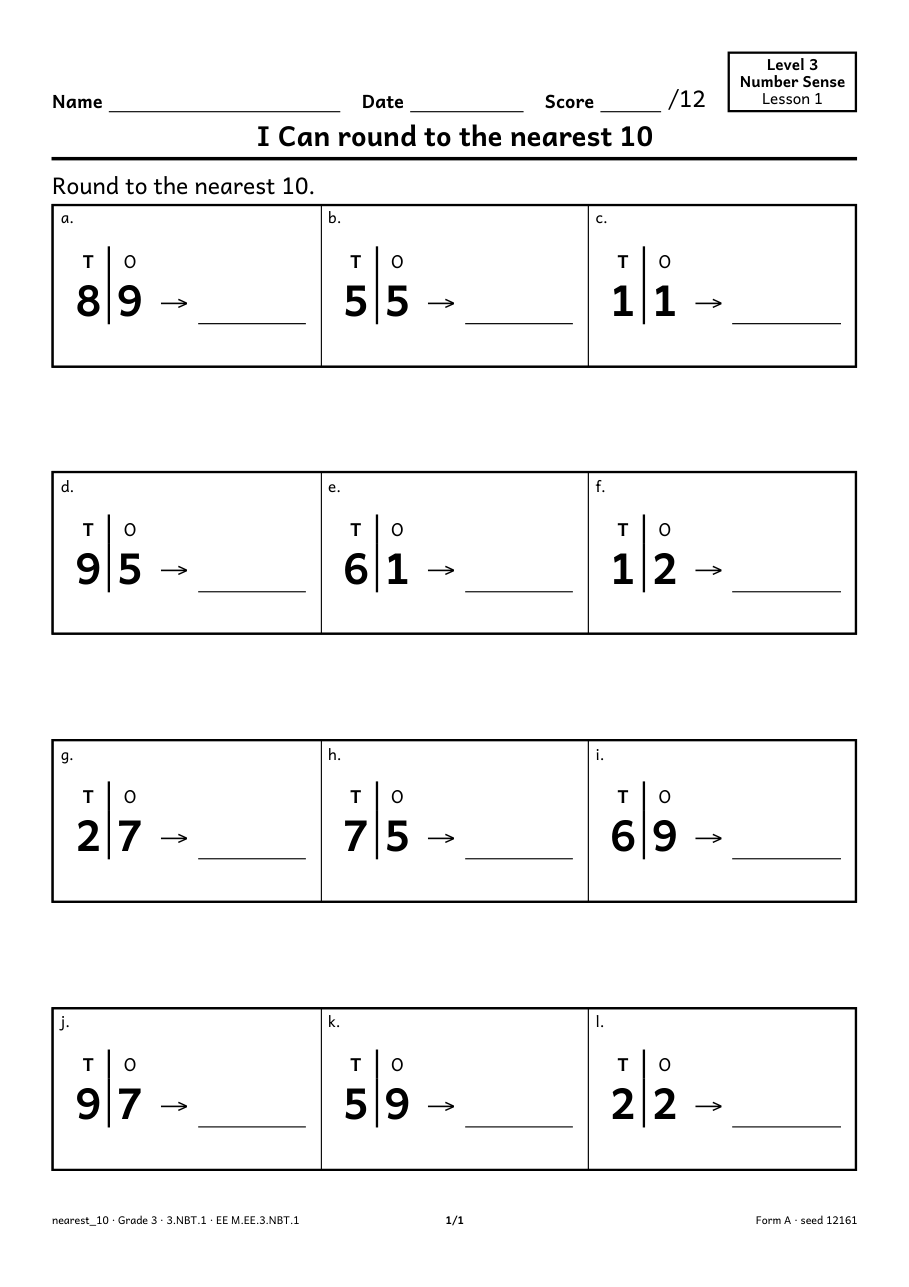
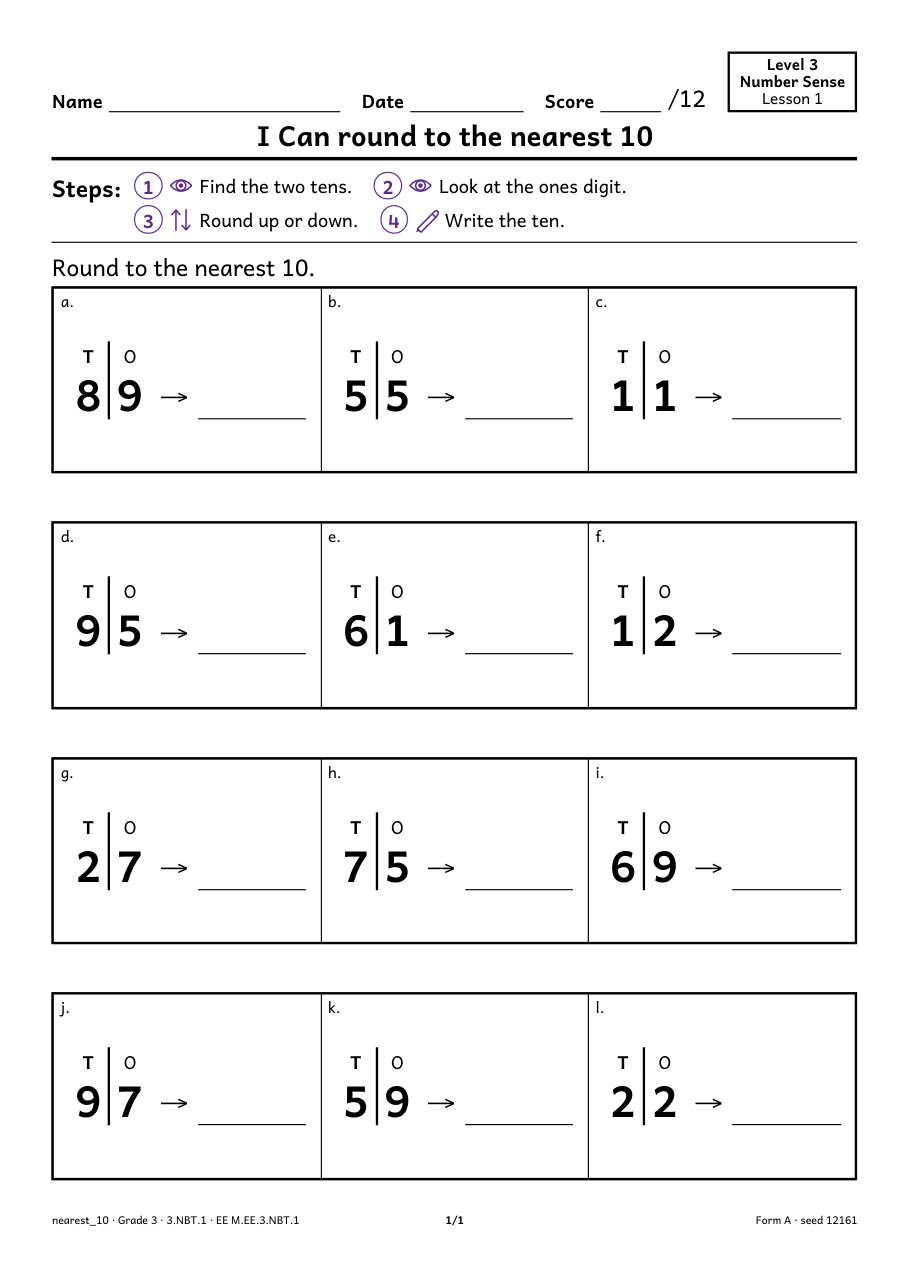
Lesson practice pages: prefer the step strip, whole rows of three
After the merge the dense engine offers 18 one-line items a page, so the strip
check compared a 12-item page with an 18-item capacity and dropped the strip.
The practice page now tries each count (15 at S / 12, then six grown to at most
1.3x) and takes the first that keeps the strip on the pages asked for, falling
back to the fullest plain page. Rounding practice at L keeps its strip again;
at S it prints 12 with the strip instead of 16 with a lone cell.

Gates: ws-print-lint --source kit --roles lesson, ws-boot-smoke, ws-teacher-shell,
ws-layout-unit, ws-code-snapshot, ws-providers-unit.

Claude-Session: https://claude.ai/code/session_01BnHmN8pgHKrPp3MQGgWUWY

diff --git a/js/modules/print-sheet.js b/js/modules/print-sheet.js
@@ -1853,53 +1853,55 @@ async function buildLesson(n, metaOf) {
         const strip = (teach.extras || []).find((x) => x.lessonStrip);
         const h = strip && strip.measured && strip.measured[1] ? strip.measured[1].hMm + 0.5 : 0;
         const stripHtml = strip && h ? strip.render(resolveCtx({ size: n.size, look: 'ican', mode: 'print' })) : '';
-        // 12.1: six items an Independent page, up to 16 for one-number answers - a page of facts
-        // takes twelve, the dense page's own two rows of six more (PT-IND-1).
         // A rounding item ("27 -> ___") is a one-number answer on one line, like a fact.
         const oneLine = (it) => it.template === 'fact' || (it.template === 'pv' && it.kind === 'round');
         const facts = (teach.items || []).filter((it) => it.pool === 'main').every(oneLine);
-        // Six taller problems fill the page two across (cells grow to the page, H13) rather than
-        // packing into the top half of a twelve-cell grid. One-line items take the dense grid at
-        // the most a page holds within the 12.1 ceiling (16 at S, then 12); a count that spills
-        // past the pages asked for steps down, and last of all to six grown to the page.
-        const tries = (facts ? (n.size === 'S' ? [16, 12] : [12]) : []).map((k) => ({ per: k, dense: true })).concat([{ per: 6, dense: false, columns: 3 }]);
-        let per = 6;
-        let dense = false;
-        let req = null;
-        let res = null;
-        for (const t of tries) {
-            const r = Object.assign({}, common, {
+        // One-line items take the dense grid at the most a page holds within the 12.1 ceiling, in
+        // whole rows of three (15 at S, then 12). Taller problems (column subtraction) print six a
+        // page, three across, grown to at most 1.3 x their own height (the lesson rows' cap): a
+        // taller row is an empty band in every cell (H13), so the grid stops short instead.
+        const tries = (facts ? (n.size === 'S' ? [15, 12] : [12]) : []).map((k) => ({ per: k, dense: true })).concat([{ per: 6, dense: false, columns: 3 }]);
+        const make = async (t) => {
+            let req = Object.assign({}, common, {
                 role: 'independent', sections: [{ skills: [sk], count: t.per * n.practicePages, dense: t.dense, columns: t.columns }], seed: (n.seed + 7919) >>> 0,
             });
-            const out = await buildSheet(r);
-            ({ per, dense } = t);
-            req = r;
-            res = out;
-            if (out.pageCount <= n.practicePages) break;
-        }
-        // Six grown to the page grow no further than 1.3 x their own height (the lesson rows' cap):
-        // a taller row is an empty band in every cell (H13), so the grid stops short instead.
-        const f0 = res && res.fits && res.fits.sections && res.fits.sections[0];
-        if (!dense && f0 && f0.hMin > 0 && f0.rows > 0 && f0.cellH > f0.hMin * 1.3) {
-            const gridH = Math.floor(f0.rows * f0.hMin * 1.3 * 1000) / 1000;
-            req = Object.assign({}, req, { sections: [Object.assign({}, req.sections[0], { gridH, columns: f0.cols })] });
-            res = await buildSheet(req);
-        }
+            let res = await buildSheet(req);
+            const f0 = res && res.fits && res.fits.sections && res.fits.sections[0];
+            if (!t.dense && f0 && f0.hMin > 0 && f0.rows > 0 && f0.cellH > f0.hMin * 1.3) {
+                const gridH = Math.floor(f0.rows * f0.hMin * 1.3 * 1000) / 1000;
+                req = Object.assign({}, req, { sections: [Object.assign({}, req.sections[0], { gridH, columns: f0.cols })] });
+                res = await buildSheet(req);
+            }
+            return { req, res };
+        };
         // The strip goes on only where it fits without crowding the page (owner, 2026-09-25): the
-        // page with the strip keeps the columns and the capacity it has without it. A strip that
-        // would turn three columns of problems into two wide, half-empty ones is left off; the
-        // Guided band's Steps and the anchor chart still carry the steps.
-        if (stripHtml) {
-            const cols = (res.fits && res.fits.cols) || 'auto';
-            const cap = (res.fits && res.fits.perPage) || 0;
-            let withStrip = null;
+        // page with the strip keeps the columns, the page count and the items a page of it holds.
+        // A strip that would turn three columns into two wide, half-empty ones is left off.
+        const withStrip = async (t, base) => {
+            const cols = (base.res.fits && base.res.fits.cols) || 'auto';
+            const cap = Math.min((base.res.fits && base.res.fits.perPage) || 0, t.per);
+            let out = null;
             try {
-                withStrip = await buildSheet(Object.assign({}, req, {
-                    sections: [{ skills: [sk], count: per * n.practicePages, columns: cols, dense, gridH: req.sections[0].gridH }], stepStrip: { html: stripHtml, hMm: h },
+                out = await buildSheet(Object.assign({}, base.req, {
+                    sections: [Object.assign({}, base.req.sections[0], { columns: cols })], stepStrip: { html: stripHtml, hMm: h },
                 }));
-            } catch (e) { withStrip = null; }
-            if (withStrip && withStrip.fits && withStrip.fits.cols === cols && (withStrip.fits.perPage || 0) >= cap) res = withStrip;
+            } catch (e) { out = null; }
+            return out && out.fits && out.fits.cols === cols && (out.fits.perPage || 0) >= cap && out.pageCount <= base.res.pageCount ? out : null;
+        };
+        // A page with the step strip beats a fuller page without it (the strip is how the practice
+        // page points back to the anchor chart); a count that spills past the pages asked for
+        // steps down.
+        let res = null;
+        let plain = null;
+        for (const t of tries) {
+            const base = await make(t);
+            if (!plain || plain.pageCount > n.practicePages) plain = base.res;
+            if (base.res.pageCount > n.practicePages) continue;
+            const striped = stripHtml ? await withStrip(t, base) : null;
+            if (striped) { res = striped; break; }
+            if (!stripHtml) { res = base.res; break; }
         }
+        if (!res) res = plain;
         parts.push({ part: 'practice', role: 'independent', res, strip: /data-mq-lesson-strip/.test(res.pupilHtml) });
     }
 

diff --git a/design/LESSONS_VISION.md b/design/LESSONS_VISION.md
@@ -59,7 +59,7 @@ relates to every other (prerequisite / builds on / leads to), with concepts and 
    Practice:` rows filling the page.
 3. **Practice pages** (Independent, the teacher's count) with the chart's step strip. One-line,
    one-number items (facts, "27 → ___") take the dense grid at the most a page holds within the 12.1
-   ceiling (16 at S, else 12); taller items (column subtraction) print six a page, three across,
+   ceiling, in whole rows of three (15 at S, else 12); taller items (column subtraction) print six a page, three across,
    grown to at most 1.3 × their own height (H13), so a short grid stops above the footer rather
    than drawing empty bands in every cell. The strip stays only when it keeps the page's columns
    and capacity.
